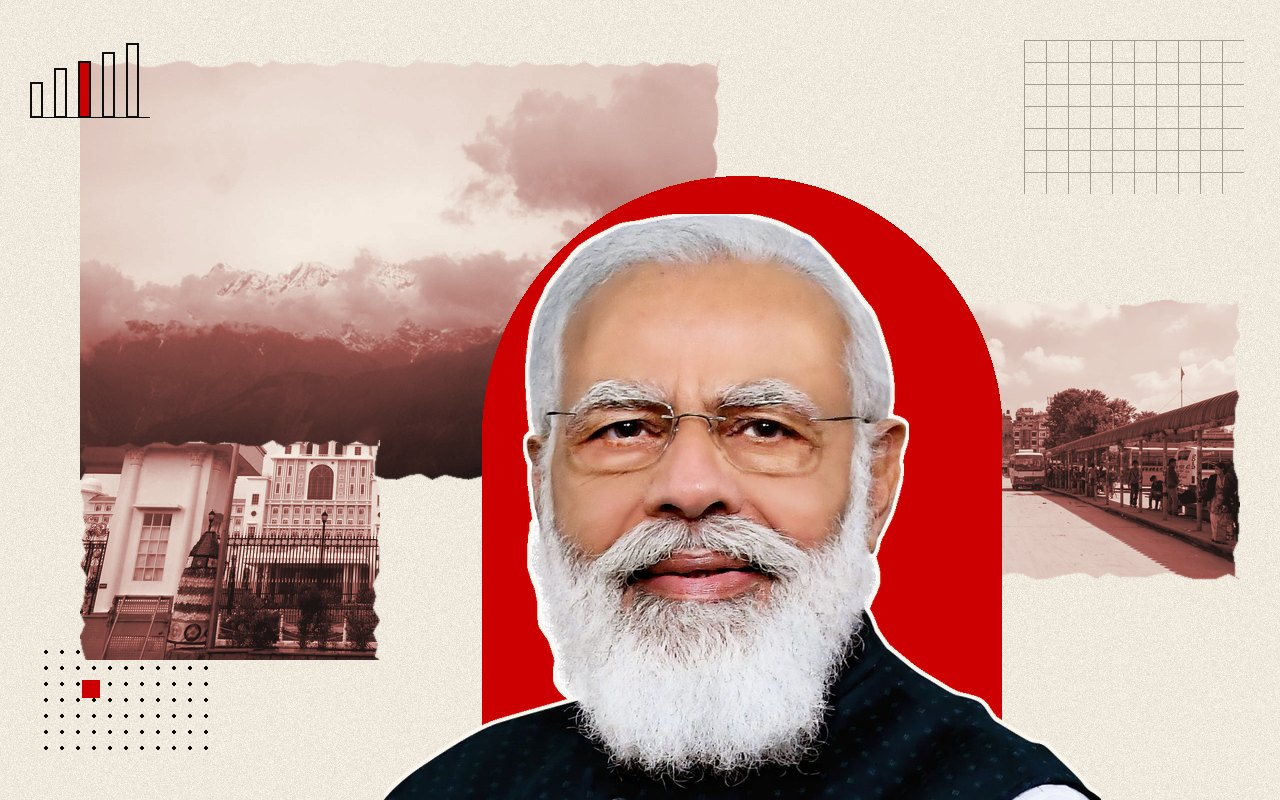
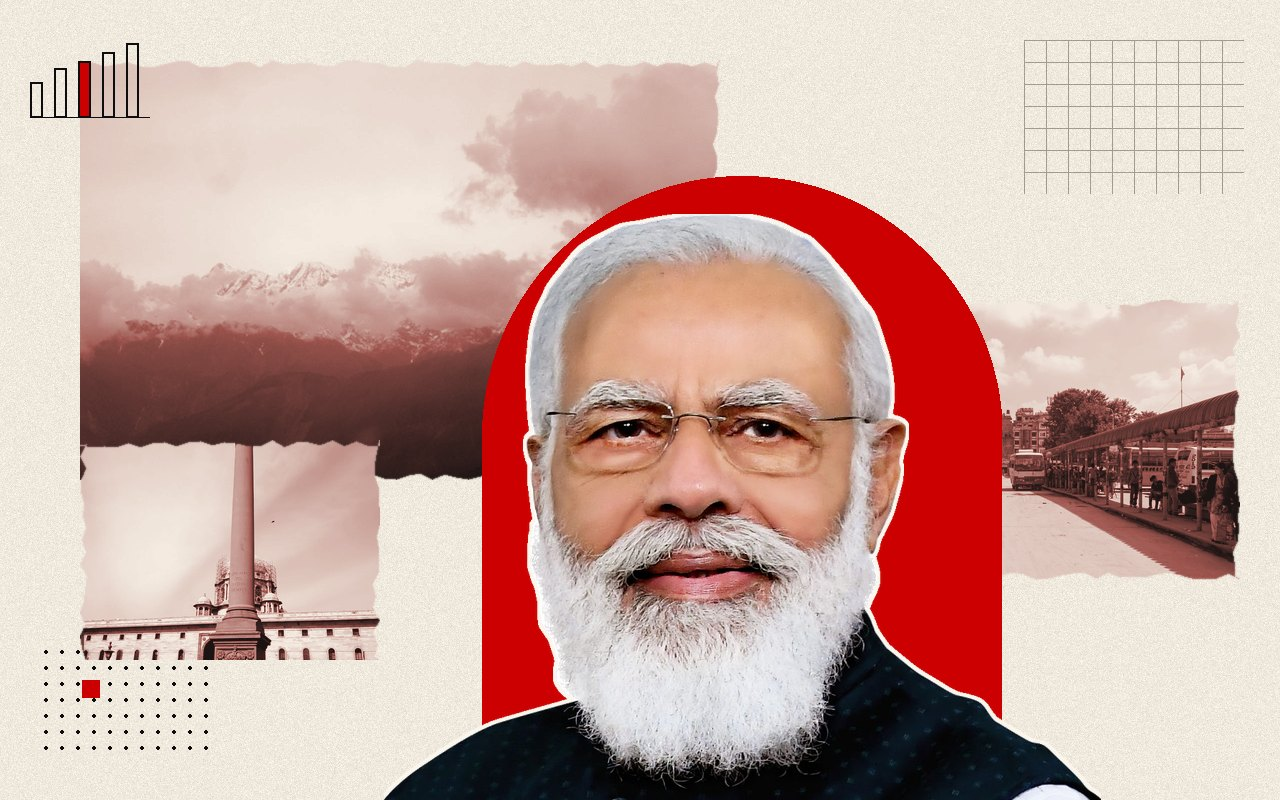
Hourly 14:00 IST (second publish): Nepal talks collage remade
The lead's collage had the Telangana Secretariat behind the India-Nepal talks (the tool read "Hyderabad House" as Hyderabad, Telangana), and on a first fix UP's Vidhan Bhavan (via "Ayodhya-Janakpur train"). treat_photo.py now ignores "Hyderabad House" and drops state civic tiles for a foreign-country story datelined New Delhi; test_collage.py passes (38 of 40, 2 known). New tiles: Nepal Himalaya, Kathmandu bus park, North Block.
GATE: PASS.

Claude-Session: https://claude.ai/code/session_01C3zerVpk3iMW3BSDZ22QSg

Changed region(s): [[0.0625, 0.5312, 0.3125, 0.8438]]

diff --git a/newsroom/scripts/treat_photo.py b/newsroom/scripts/treat_photo.py
@@ -237,6 +237,7 @@ def fill_tiles(sid, M, have, n=3):
     d = fm(sid); fp = next((R + f'content/en/{t}/{sid}.md' for t in ('news', 'explainer', 'editorial', 'factcheck') if os.path.exists(R + f'content/en/{t}/{sid}.md')), '')
     body = (open(fp).read().split('---', 2)[-1][:1500] if os.path.exists(fp) else '')
     text = re.sub(r'\b(?:Monsoon|Winter|Budget) [Ss]ession', 'Parliament session', ' '.join(str(d.get(k) or '') for k in ('title', 'standfirst', 'format_label')))   # the Monsoon Session is Parliament, not rain   # headline and standfirst only
+    text = text.replace('Hyderabad House', 'Delhi venue'); body = body.replace('Hyderabad House', 'Delhi venue')   # Delhi's Hyderabad House is not Telangana (hourly-14, November 23: Telangana Secretariat behind the India-Nepal talks)
     countries = country_of(str(d.get('title') or '') + ' ' + str(d.get('standfirst') or ''))
     loc = str(d.get('location') or '')
     state = next((ALIAS.get(x.strip(), x.strip()) for x in loc.split(',')[::-1] if ALIAS.get(x.strip(), x.strip()) in STATES
@@ -247,6 +248,7 @@ def fill_tiles(sid, M, have, n=3):
     if not state:   # a Delhi dateline: the state the headline is about, if any (Bastar -> Chhattisgarh)
         for nm in sorted(list(ALIAS) + list(STATES), key=len, reverse=True):
             if nm not in ('New Delhi', 'Delhi') and re.search(rf'\b{re.escape(nm)}\b', text): state = ALIAS.get(nm, nm); break
+    if state and countries and loc.strip() in ('New Delhi', 'Delhi'): state = None   # a foreign leader's Delhi talks are not a state story (hourly-14, November 23: UP Vidhan Bhavan behind the India-Nepal talks via 'Ayodhya-Janakpur train')
     def state_ok(alt):   # a scene from a state the story never mentions does not belong (UP's Vidhan Bhawan behind Advani)
         if re.search(r'High Court', alt) and not re.search(r'High Court', story): return False   # another court behind a Supreme Court story (owner, November 12)
         for nm in list(STATES) + list(ALIAS):
